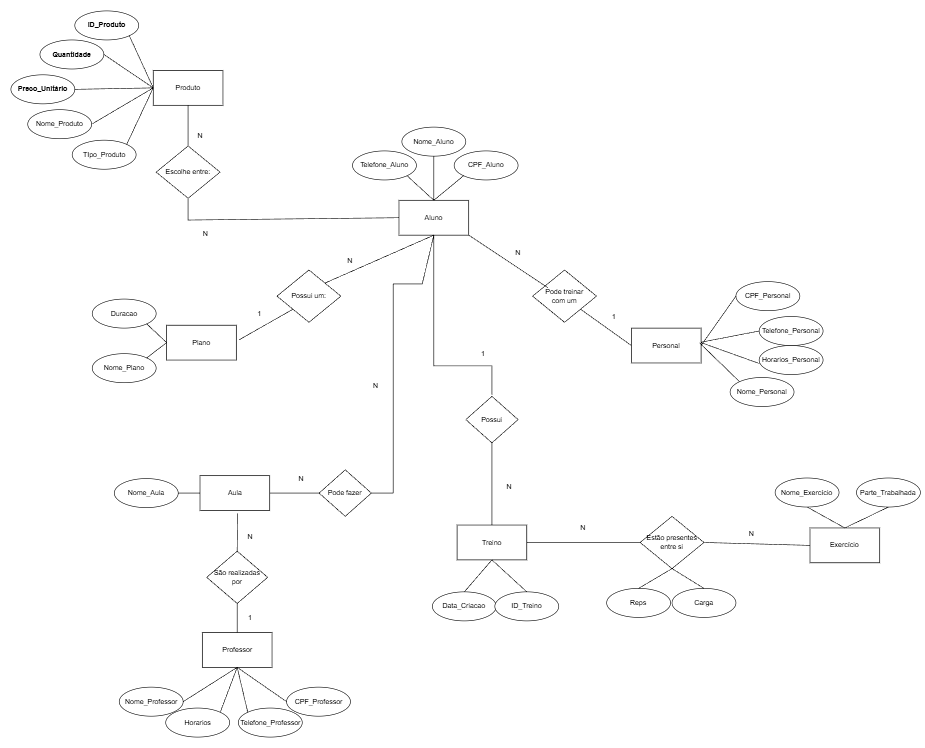
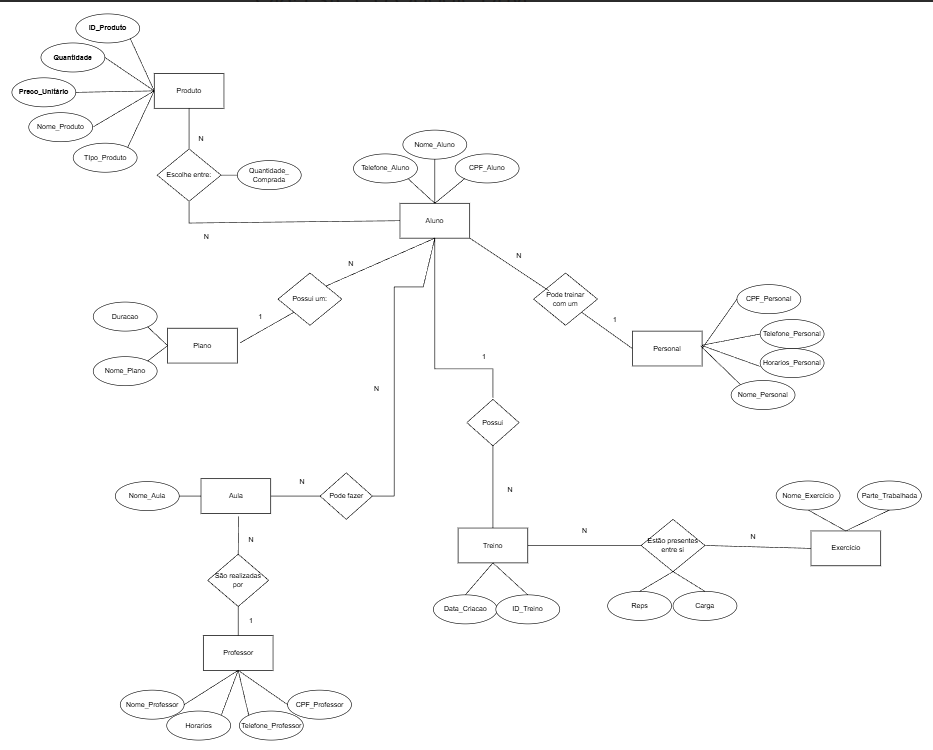
Refactor: Mudança na relação de Produto_Aluno,  adicionando a coluna de Quantidade_Comprada

diff --git a/faker/generate_data.py b/faker/generate_data.py
@@ -205,8 +205,8 @@ for aluno in random.sample(alunos, k=min(30, len(alunos))):
         if par not in pares_produto_aluno:
             try:
                 cursor.execute("""
-                    INSERT INTO Produto_Aluno (ID_Produto, CPF_Aluno) VALUES (?, ?)
-                """, id_produto, aluno)
+                    INSERT INTO Produto_Aluno (ID_Produto, CPF_Aluno, Quantidade_Comprada) VALUES (?, ?, ?)
+                """, id_produto, aluno, random.randint(1, 10))
                 pares_produto_aluno.add(par)
                 produto_aluno_inseridos += 1
             except:
